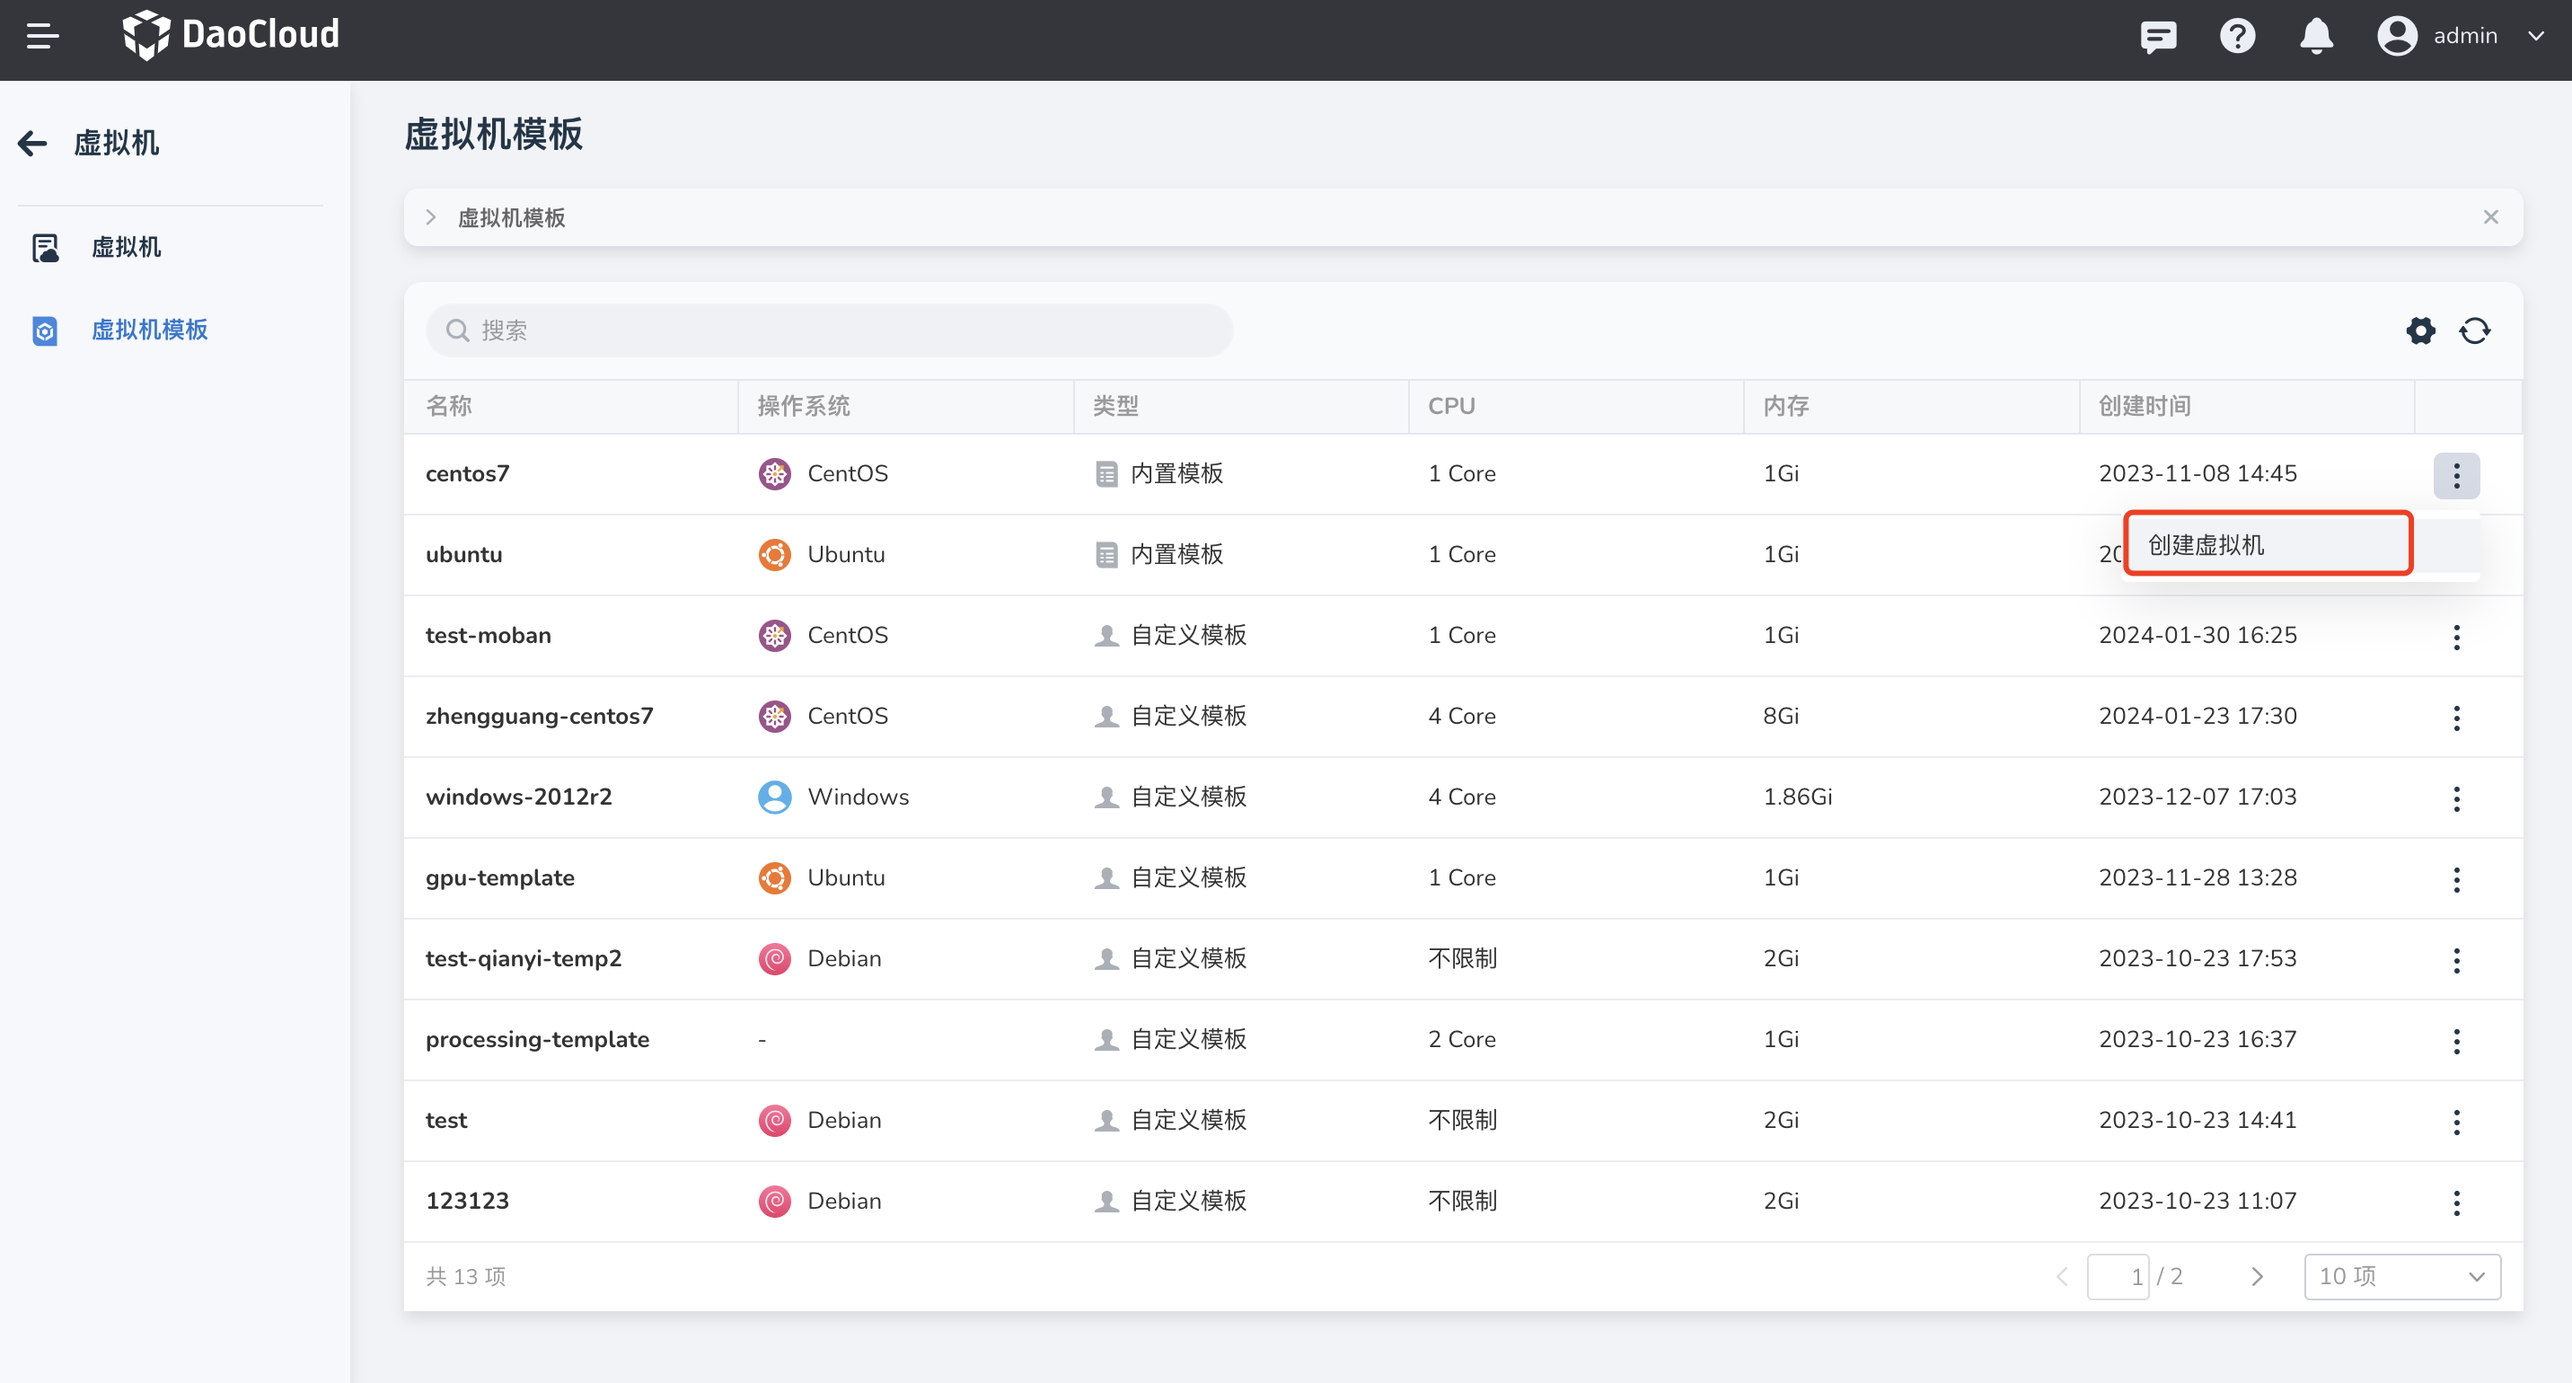
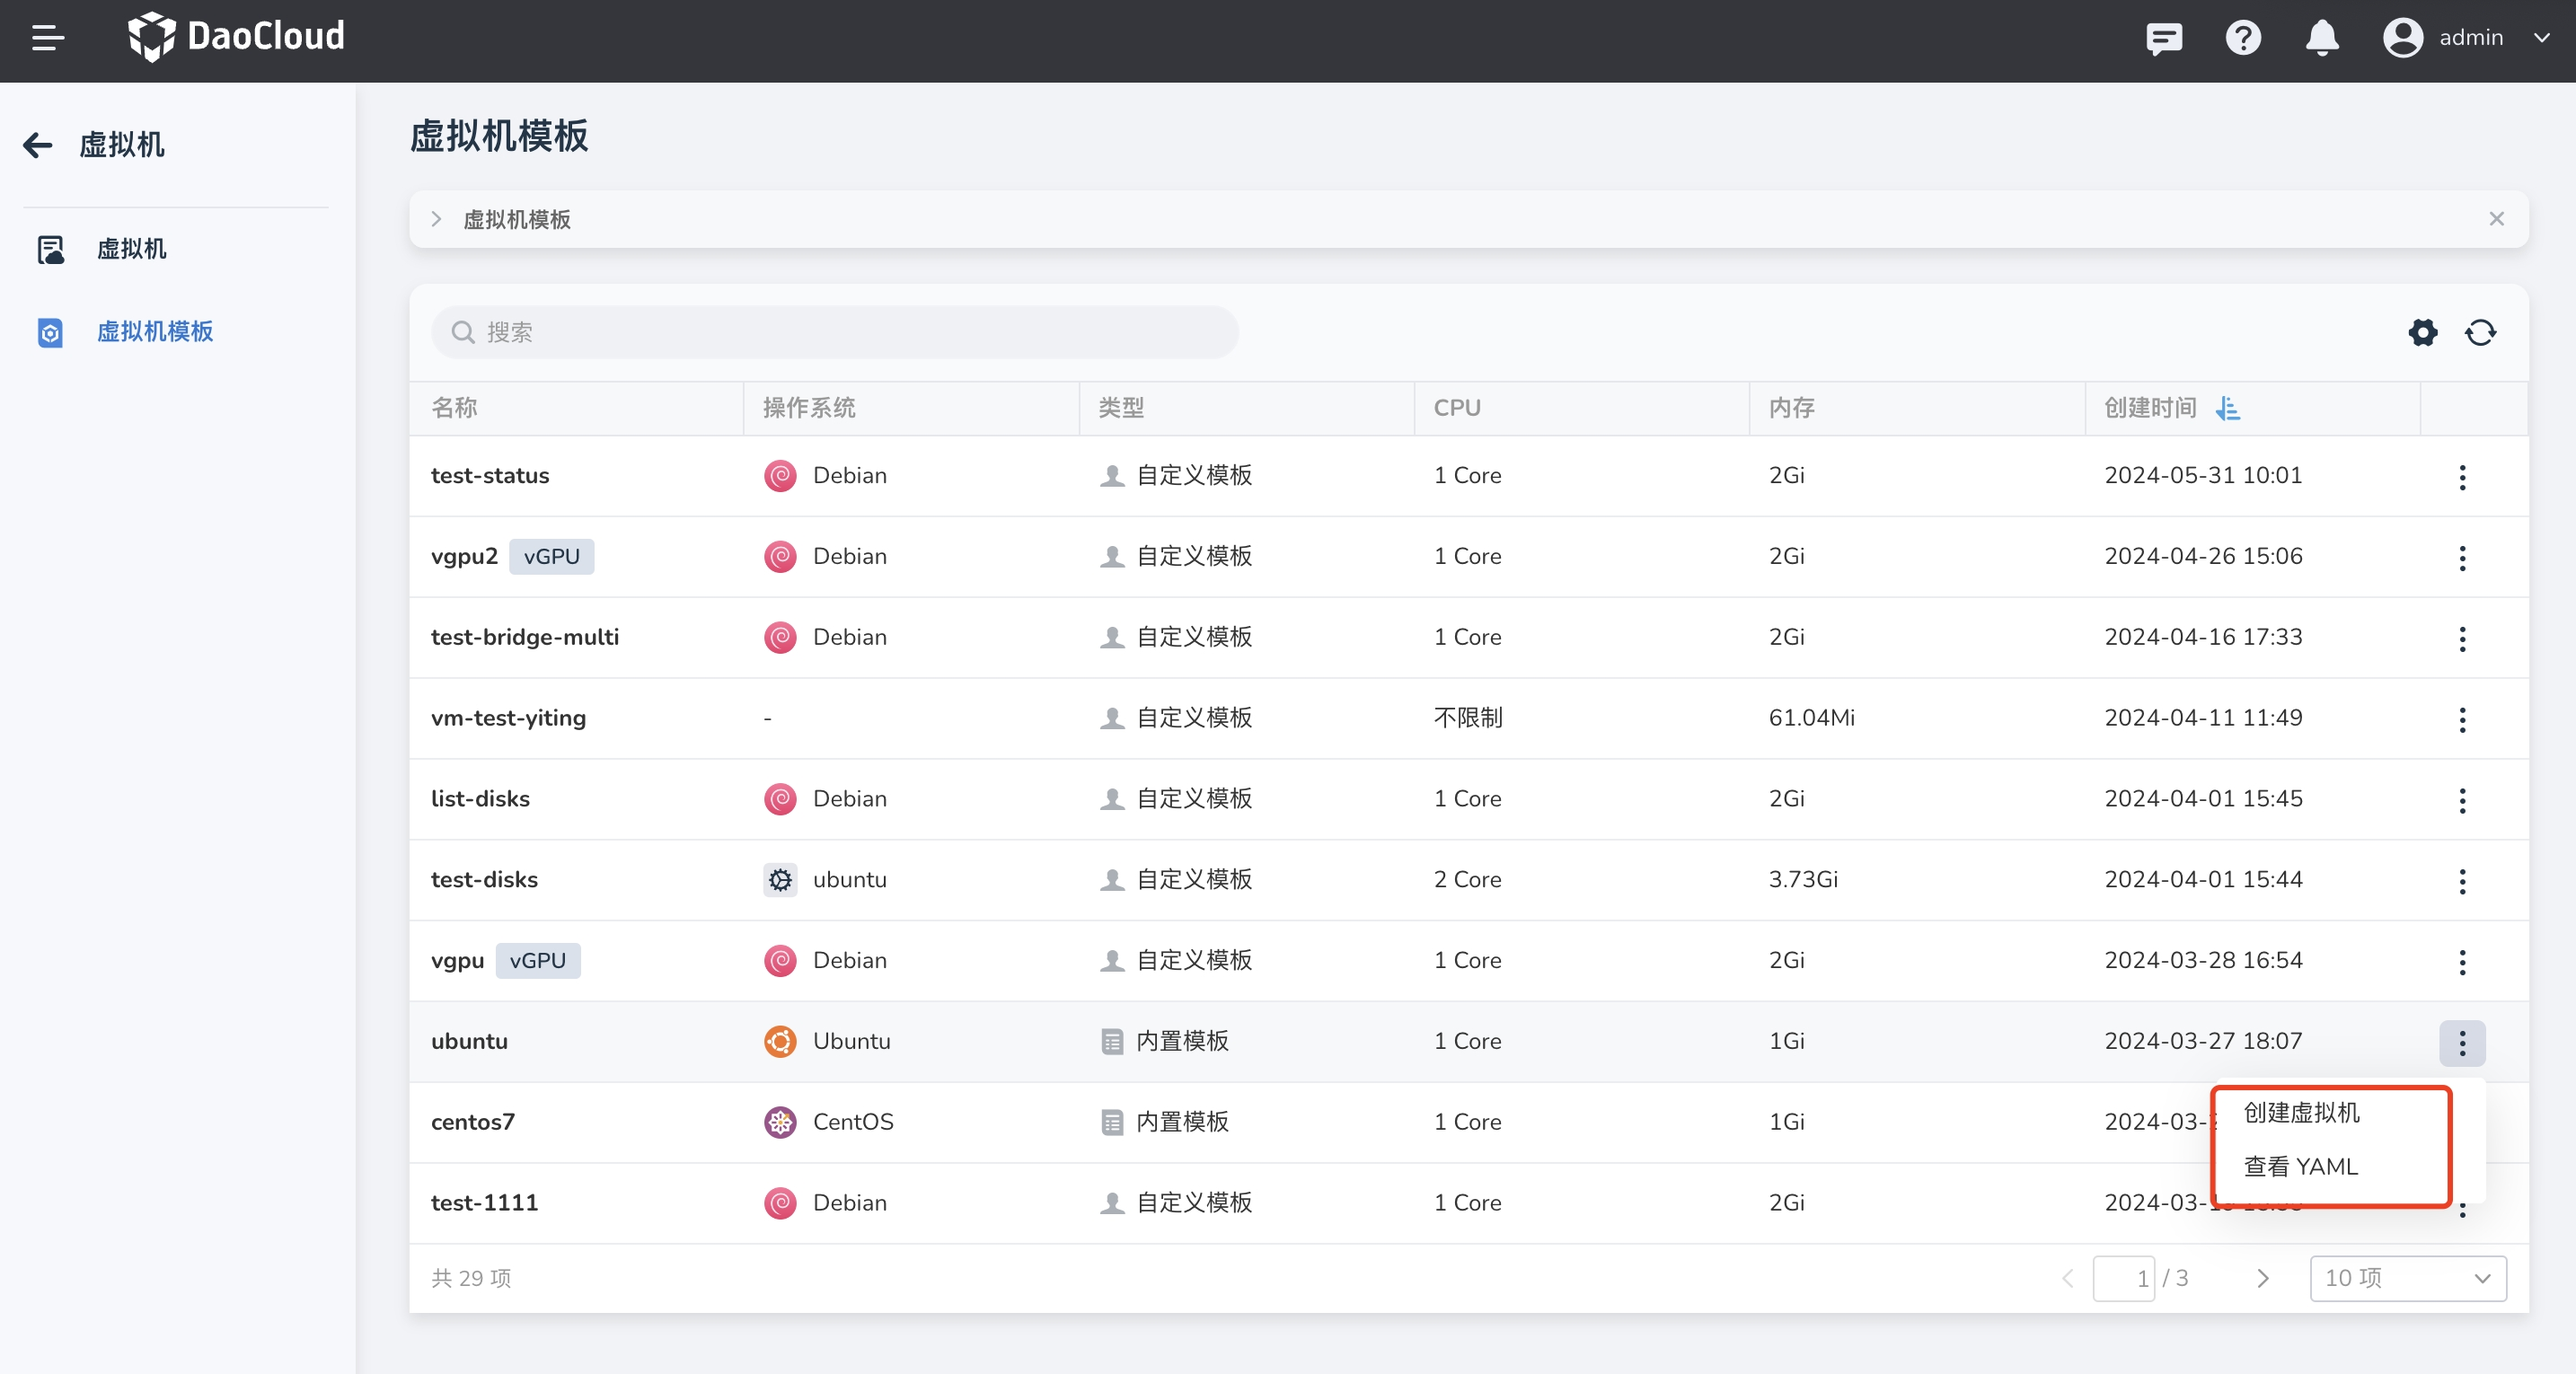
virtnest-update tep

diff --git a/docs/zh/docs/virtnest/template/tep.md b/docs/zh/docs/virtnest/template/tep.md
@@ -6,15 +6,17 @@
 
 ## 虚拟机模板
 
-1. 点击左侧导航栏上的 __容器管理__ ，然后点击 __虚拟机模板__ ，进入 __虚拟机模板__ 页面。
+1. 点击左侧导航栏上的 __容器管理__ ，然后点击 __虚拟机模板__ ，进入 __虚拟机模板__ 页面，若该模板是由配置了 GPU 的虚拟机转换而来，模板也会带有 GPU 的信息，将在模板列表中展示。
 
-    ![虚拟机模板](https://docs.daocloud.io/daocloud-docs-images/docs/zh/docs/virtnest/images/tep01.png)
+    ![虚拟机模板](../images/tep01.png)
 
-2. 点击列表右侧的 __┇__ ，可以对内置模板执行创建虚拟机操作；对自定义模板支持创建虚拟机和删除操作。
+2. 点击列表右侧的 __┇__ ，可以对内置模板执行创建虚拟机和查看 YAML 操作；对自定义模板支持创建虚拟机、编辑 YAML 和删除操作。
 
     ![内置模板操作](../images/tep02.png)
 
     ![自定义模板操作](../images/tep03.png)
+
+    ![编辑自定义模板](../images/tep-yaml.png)
 
 ### 内置模板
 
@@ -33,3 +35,9 @@
 2. 填写新模板的名称，提示原始虚拟机将会保留并且可用。转换成功后，将会在模板列表新增一条数据。
 
     ![转化模板](https://docs.daocloud.io/daocloud-docs-images/docs/zh/docs/virtnest/images/tep05.png)
+
+### 模板详情
+
+模板详情包含模板的基本信息、GPU 配置、存储和网络信息。
+
+![模板详情](../images/tep-detail.png)
